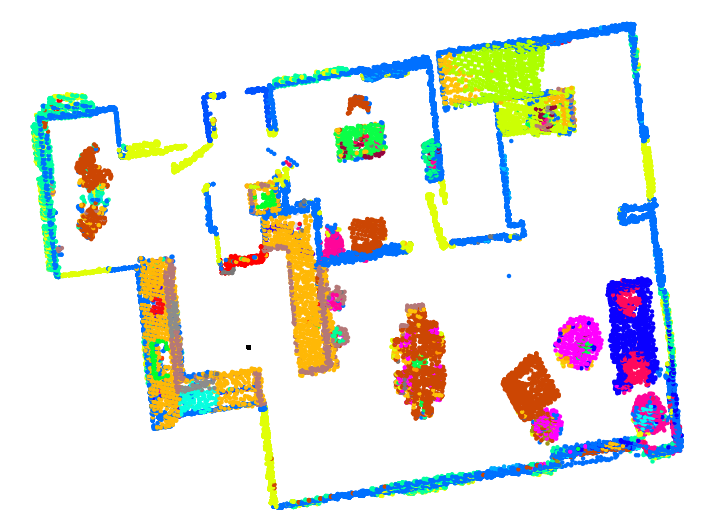
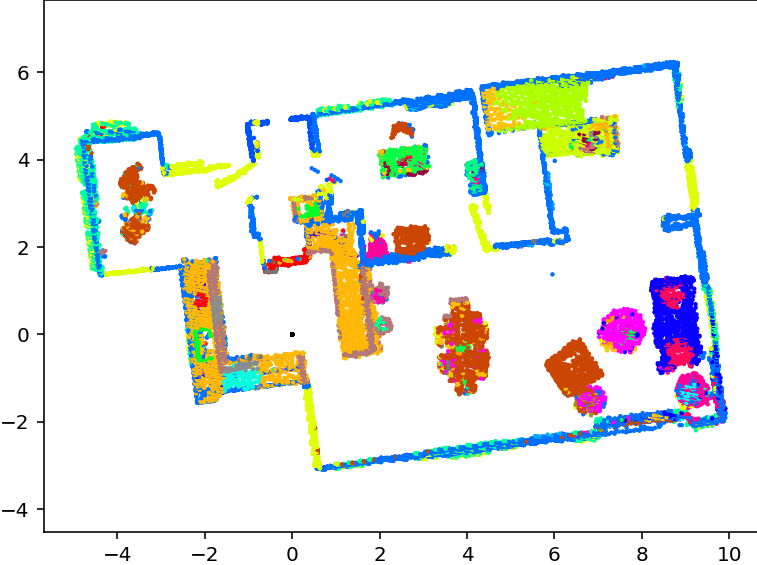
feat: finish hw2

diff --git a/hw2/main.py b/hw2/main.py
@@ -1,0 +1,225 @@
+import numpy as np
+from PIL import Image
+import numpy as np
+import habitat_sim
+from habitat_sim.utils.common import d3_40_colors_rgb
+import cv2
+import os
+import sys
+import argparse
+import shutil
+from map import get_path,get_map
+from scipy.spatial.transform import Rotation as R
+import time
+from make_gif import make_gif
+
+
+# This is the scene we are going to load.
+# support a variety of mesh formats, such as .glb, .gltf, .obj, .ply
+### put your scene path ###
+test_scene = "replica_v1/apartment_0/habitat/mesh_semantic.ply"
+
+sim_settings = {
+    "scene": test_scene,  # Scene path
+    "default_agent": 0,  # Index of the default agent
+    "sensor_height": 1.5,  # Height of sensors in meters, relative to the agent
+    "width": 512,  # Spatial resolution of the observations
+    "height": 512,
+    "sensor_pitch": 0,  # sensor pitch (x rotation in rads)
+}
+
+
+# This function generates a config for the simulator.
+# It contains two parts:
+# one for the simulator backend
+# one for the agent, where you can attach a bunch of sensors
+
+
+def transform_rgb_bgr(image):
+    return image[:, :, [2, 1, 0]]
+
+
+def transform_semantic(semantic_obs):
+    semantic_img = Image.new("P", (semantic_obs.shape[1], semantic_obs.shape[0]))
+    semantic_img.putpalette(d3_40_colors_rgb.flatten())
+    semantic_img.putdata((semantic_obs.flatten() % 40).astype(np.uint8))
+    semantic_img = semantic_img.convert("RGB")
+    semantic_img = cv2.cvtColor(np.asarray(semantic_img), cv2.COLOR_RGB2BGR)
+    return semantic_img
+
+def make_simple_cfg(settings):
+    # simulator backend
+    sim_cfg = habitat_sim.SimulatorConfiguration()
+    sim_cfg.scene_id = settings["scene"]
+    # agent
+    agent_cfg = habitat_sim.agent.AgentConfiguration()
+    
+    agent_cfg.action_space = {
+        "move_forward": habitat_sim.agent.ActionSpec("move_forward", habitat_sim.agent.ActuationSpec(amount=0.1)),
+        "turn_left": habitat_sim.agent.ActionSpec("turn_left", habitat_sim.agent.ActuationSpec(amount=1.0)),
+        "turn_right": habitat_sim.agent.ActionSpec("turn_right", habitat_sim.agent.ActuationSpec(amount=1.0)),
+    }
+
+    # In the 1st example, we attach only one sensor,
+    # a RGB visual sensor, to the agent
+    rgb_sensor_spec = habitat_sim.CameraSensorSpec()
+    rgb_sensor_spec.uuid = "color_sensor"
+    rgb_sensor_spec.sensor_type = habitat_sim.SensorType.COLOR
+    rgb_sensor_spec.resolution = [settings["height"], settings["width"]]
+    rgb_sensor_spec.position = [0.0, settings["sensor_height"], 0.0]
+    rgb_sensor_spec.orientation = [
+        settings["sensor_pitch"],
+        0.0,
+        0.0,
+    ]
+    rgb_sensor_spec.sensor_subtype = habitat_sim.SensorSubType.PINHOLE
+
+    #depth snesor
+    depth_sensor_spec = habitat_sim.CameraSensorSpec()
+    depth_sensor_spec.uuid = "depth_sensor"
+    depth_sensor_spec.sensor_type = habitat_sim.SensorType.DEPTH
+    depth_sensor_spec.resolution = [settings["height"], settings["width"]]
+    depth_sensor_spec.position = [0.0, settings["sensor_height"], 0.0]
+    depth_sensor_spec.orientation = [
+        settings["sensor_pitch"],
+        0.0,
+        0.0,
+    ]
+    depth_sensor_spec.sensor_subtype = habitat_sim.SensorSubType.PINHOLE
+
+    #semantic snesor
+    semantic_sensor_spec = habitat_sim.CameraSensorSpec()
+    semantic_sensor_spec.uuid = "semantic_sensor"
+    semantic_sensor_spec.sensor_type = habitat_sim.SensorType.SEMANTIC
+    semantic_sensor_spec.resolution = [settings["height"], settings["width"]]
+    semantic_sensor_spec.position = [0.0, settings["sensor_height"], 0.0]
+    semantic_sensor_spec.orientation = [
+        settings["sensor_pitch"],
+        0.0,
+        0.0,
+    ]
+    semantic_sensor_spec.sensor_subtype = habitat_sim.SensorSubType.PINHOLE
+
+    agent_cfg.sensor_specifications = [rgb_sensor_spec, depth_sensor_spec, semantic_sensor_spec]
+
+    return habitat_sim.Configuration(sim_cfg, [agent_cfg])
+
+def navigateAndSee(action="", data_root='data_collection/first_floor/',color_code= [0,0,0]):
+    global count
+    observations = sim.step(action)
+    #print("action: ", action)
+
+    agent_state = agent.get_state()
+    sensor_state = agent_state.sensor_states['color_sensor']
+    print("Frame:", count)
+    print("camera pose: x y z rw rx ry rz")
+    print(sensor_state.position[0],sensor_state.position[1],sensor_state.position[2], sensor_state.rotation.w, sensor_state.rotation.x, sensor_state.rotation.y, sensor_state.rotation.z)
+    
+    count += 1
+    rgb_img = transform_rgb_bgr(observations["color_sensor"])
+    semantic_img = transform_semantic(observations["semantic_sensor"])
+    semantic_array = np.array(semantic_img)
+    color_code = [color_code[2],color_code[1],color_code[0]]
+    color_mask = np.all((semantic_array == color_code), axis=-1)
+    overlay = np.zeros_like(rgb_img)
+    overlay[color_mask] = [0,0,255]
+    blended_img = cv2.addWeighted(rgb_img, 0.5, overlay, 0.5, 0)
+    
+    cv2.imwrite(data_root + f"rgb/{count}.png", blended_img)
+
+    
+    
+def get_action(now):
+    agent_state = agent.get_state()
+    sensor_state = agent_state.sensor_states['color_sensor']
+    if now < len(path)-1:
+        if np.sqrt(((sensor_state.position[0] - path[now+1][0] ) **2 + (sensor_state.position[2] - path[now+1][1])**2)) < 0.1:
+            now += 1 
+    now_degree = np.round(np.degrees(2 * np.arctan2(sensor_state.rotation.y, sensor_state.rotation.w)))
+
+    vector = [sensor_state.position[0] - path[now+1][0] , sensor_state.position[2] - path[now+1][1] ]
+    angle = np.arctan2(vector[0],vector[1]) 
+    
+    
+    angle_d = np.round(np.degrees(angle))
+    if now_degree < 0:
+        now_degree = now_degree + 360
+    print("now_degree: ", now_degree)
+        
+    if angle_d < 0:
+        angle_d = angle_d + 360
+        
+    rotate_angle = angle_d - now_degree
+        
+    print("angle_d: ", angle_d)
+    print("now", now)
+    if rotate_angle == 0:
+        if now == len(path) -2 :
+            return now,"finish"
+        return now,"move_forward"   
+    elif rotate_angle > 0 and rotate_angle < 180:
+        return now,"turn_left"
+    return now,"turn_right"
+    
+
+parser = argparse.ArgumentParser()
+parser.add_argument('-f', '--floor', type=int, default=1)  
+args = parser.parse_args()
+
+get_map()
+map = cv2.imread('map.png')
+target_object,color_code,path = get_path(map)
+print("color_code: ", color_code)
+print(path)
+
+cfg = make_simple_cfg(sim_settings)
+sim = habitat_sim.Simulator(cfg)
+
+# initialize an agent
+agent = sim.initialize_agent(sim_settings["default_agent"])
+
+# Set agent state
+agent_state = habitat_sim.AgentState()
+if args.floor == 1:
+    agent_state.position = np.array([path[0][0], 0.0, path[0][1]])  # agent in world space
+    
+agent.set_state(agent_state)
+
+
+# obtain the default, discrete actions that an agent can perform
+# default action space contains 3 actions: move_forward, turn_left, and turn_right
+action_names = list(cfg.agents[sim_settings["default_agent"]].action_space.keys())
+print("Discrete action space: ", action_names)
+
+
+if args.floor == 1:
+    data_root = "data_collection/first_floor/"
+
+
+if os.path.isdir(data_root): 
+    shutil.rmtree(data_root)  # WARNING: this line will delete whole directory with files
+
+for sub_dir in ['rgb/']:
+    os.makedirs(data_root + sub_dir)
+
+count = 0
+action = "move_forward"
+
+navigateAndSee(action, data_root,color_code)
+now = 0 
+while True:
+    # keystroke = cv2.waitKey(0)
+    now,action = get_action(now)
+    if action == "move_forward":
+        print("action: FORWARD")
+    elif action == "turn_left" :
+        print("action: LEFT")
+    elif action == "turn_right":
+        print("action: RIGHT")
+    elif action == "finish":
+        print("action: FINISH")
+        break
+    navigateAndSee(action, data_root,color_code)
+
+make_gif(target_object)
+

diff --git a/hw2/map.py b/hw2/map.py
@@ -18,8 +18,10 @@ def click_event(event, x, y, flags, params):
         start_point.append(y)
         font = cv2.FONT_HERSHEY_SIMPLEX
         # cv2.putText(img, str(x) + ',' + str(y), (x+5, y+5), font, 0.5, (0, 0, 255), 1)
+        map = cv2.imread('map.png')
         cv2.circle(map, (x, y), 3, (0, 0, 255), -1)
         cv2.imshow('map', map)
+        
         
 
 
@@ -60,9 +62,9 @@ def RRT(start, goal, step_length,map,end_distance):
         path.append(x_now)
         
     path.reverse()
-        
-        
+    path.append(goal)
     cv2.imshow('Map with Path', map)
+    cv2.imwrite('path.png', map)
     cv2.waitKey(0)
     cv2.destroyAllWindows()
     return path
@@ -71,7 +73,7 @@ def obstacle_check(points, map):
     for i in range(len(points)):
         if map[points[i][1]][points[i][0]][0] != 255 or map[points[i][1]][points[i][0]][1] != 255 or map[points[i][1]][points[i][0]][2] != 255:
             return True
-        if points[i][0] > 226 and points[i][0] < 244 and points[i][1] > 91 and points[i][1] < 96:
+        if points[i][0] > 269 and points[i][0] < 291 and points[i][1] > 119 and points[i][1] < 123:
             return True
     return False
 
@@ -103,20 +105,29 @@ def bresenham(random_p,nearest_p):
 def distance(p1, p2):
     return np.sqrt((p1[0]-p2[0])**2 + (p1[1]-p2[1])**2)
 
-if __name__ == '__main__':
+
+def transfom_matrix(p1_a,p2_a,p3_a,p4_a,p1_p,p2_p,p3_p,p4_p):
+    M = cv2.getPerspectiveTransform(np.float32([p1_p,p2_p,p3_p,p4_p]),np.float32([p1_a,p2_a,p3_a,p4_a]))
+    return M
+
+
+def get_map():
     points = np.load("semantic_3d_pointcloud/point.npy") *10000/255
     colors = np.load("semantic_3d_pointcloud/color01.npy")
     colors255 = np.load("semantic_3d_pointcloud/color0255.npy")
     unremoved_p = ~((points[:,1] < -1.2) |(points[:,1] > 0))
     colors255_r = colors255[unremoved_p]
     
+    
     plt.figure()
     plt.scatter(points[unremoved_p, 2], points[unremoved_p, 0], s=1.5, c=colors[unremoved_p])
-    plt.axis('off')
+    # plt.axis('off')
+    plt.axis('equal')
     plt.savefig('map.png', dpi=144, bbox_inches='tight', pad_inches=0)
+
+def get_path(map):
     
-    
-       # before running the program, make sure to pip install openpyxl
+    # before running the program, make sure to pip install openpyxl
     df = pd.read_excel("color_coding_semantic_segmentation_classes.xlsx",usecols=["Color_Code (R,G,B)", "Name"])
     
     target_object = ""
@@ -131,7 +142,7 @@ if __name__ == '__main__':
             print("Invalid object")
             
     print(color_code)
-    map = cv2.imread("map.png")
+    
     
     target_points = []
     path_points = []
@@ -172,6 +183,25 @@ if __name__ == '__main__':
     path = RRT(start_point, target, 20, map,min(end_distance,60))
     
     
+    p1_p = [117,72]
+    p2_p = [553,509]
+    p3_p = [379,509]
+    p4_p = [117,246]
+
+    p1_a = [-4,6]
+    p2_a = [6,-4]
+    p3_a = [2,-4]
+    p4_a = [-4,2]
     
+    M = transfom_matrix(p1_a,p2_a,p3_a,p4_a,p1_p,p2_p,p3_p,p4_p)
+    path = cv2.perspectiveTransform(np.array([path],dtype=np.float32),M)
+    path[:,:,[0, 1]] = path[:,:,[1, 0]]
+    path = path[0]
+    return target_object,c,path
+
+if __name__ == "__main__":
+    get_map()
+    map = cv2.imread("map.png")
+    path = get_path(map)
+    print(path)
     
-   

diff --git a/hw2/make_gif.py b/hw2/make_gif.py
@@ -1,0 +1,33 @@
+import os
+from PIL import Image
+
+
+def make_gif(output):
+    image_folder = 'data_collection/first_floor/rgb'
+    gif_filename = output + '.gif'
+
+    images = []
+    for filename in os.listdir(image_folder):
+        if filename.endswith('.png'):
+            img_path = os.path.join(image_folder, filename)
+            images.append(img_path)
+
+    images.sort(key=lambda x: int(os.path.splitext(os.path.basename(x))[0]))
+    
+    if images:
+        with Image.open(images[0]) as first_image:
+            frames = []
+            for img_path in images[1:]:
+                with Image.open(img_path) as img:
+                    frames.append(img.copy())  
+
+
+            first_image.save(gif_filename, save_all=True, append_images=frames, duration=100, loop=0)
+
+        print(f'GIF saved as {gif_filename}')
+    else:
+        print('No images found in the specified folder.')
+
+
+if __name__ == "__main__":
+    make_gif("cooktop")
